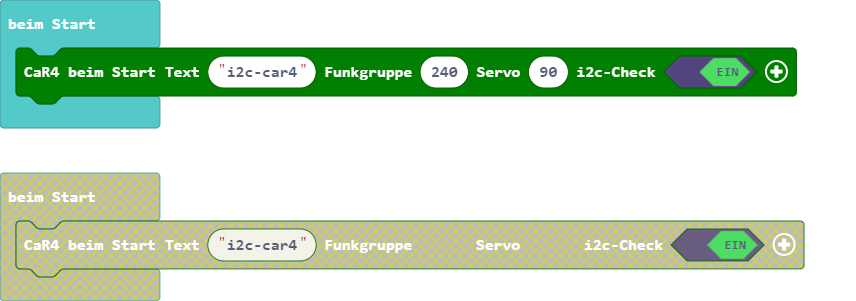
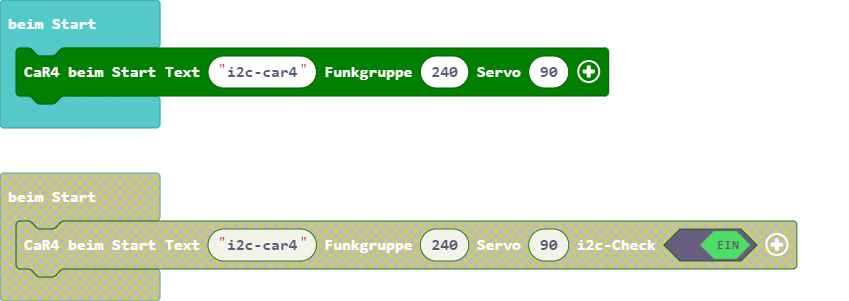
Aktualisiere pxt.json, main.blocks, car4.ts, qwiicmotor.ts

diff --git a/qwiicmotor.ts b/qwiicmotor.ts
@@ -1,0 +1,21 @@
+// Gib deinen Code hier ein
+namespace car4
+/*
+*/ { // qwiicmotor.ts
+    const i2cMotor = qwiicmotor.eADDR.Motor_x5D
+    const DRIVER_ENABLE = 0x70 //  0x01: Enable, 0x00: Disable this driver
+    const MA_DRIVE = 0x20 // 0x00..0xFF Default 0x80
+    const MB_DRIVE = 0x21
+
+    //% group="Motor"
+    //% block="Motor Power %pON" weight=4
+    export function driver_enable(pON: boolean): boolean {
+        return pins.i2cWriteBuffer(i2cMotor, Buffer.fromArray([DRIVER_ENABLE, pON ? 0x01 : 0x00])) == 0
+    }
+    /*  function writeRegister(pADDR: number, pRegister: number, value: number) {
+         let bu = Buffer.create(2)
+         bu.setUint8(0, pRegister)
+         bu.setUint8(1, value)
+         i2cWriteBuffer(pADDR, bu)
+     } */
+} // qwiicmotor.ts

diff --git a/car4.ts b/car4.ts
@@ -109,4 +109,17 @@ namespace car4
         //return RangeInCentimeters;
     }
 
+    export function i2cErrorLog(pADDR: number) {
+
+    }
+
+    function writeRegister(pADDR: number, pRegister: number, value: number, repeat: boolean = false): boolean {
+        return pins.i2cWriteBuffer(pADDR, Buffer.fromArray([pRegister, value]), repeat) == 0
+    }
+
+    function readBuffer(pADDR: number, pRegister: number): Buffer {
+        pins.i2cWriteBuffer(pADDR, Buffer.fromArray([pRegister]), true)
+        return pins.i2cReadBuffer(pADDR, 1)
+    }
+
 }
